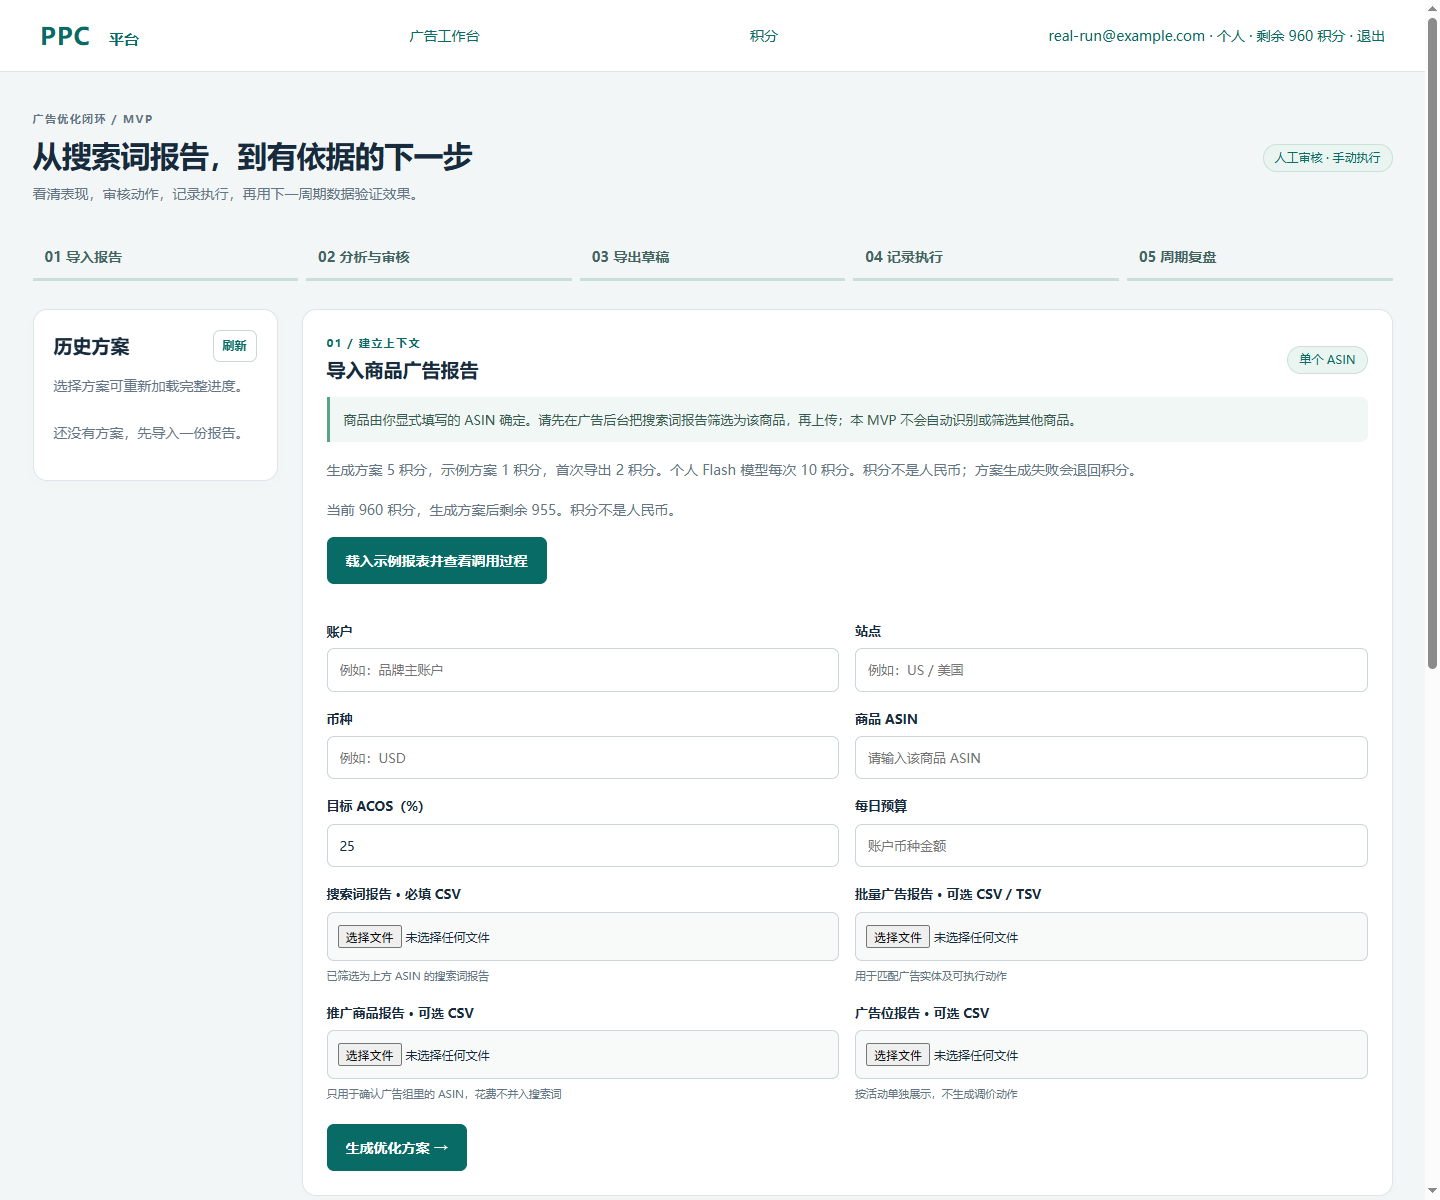
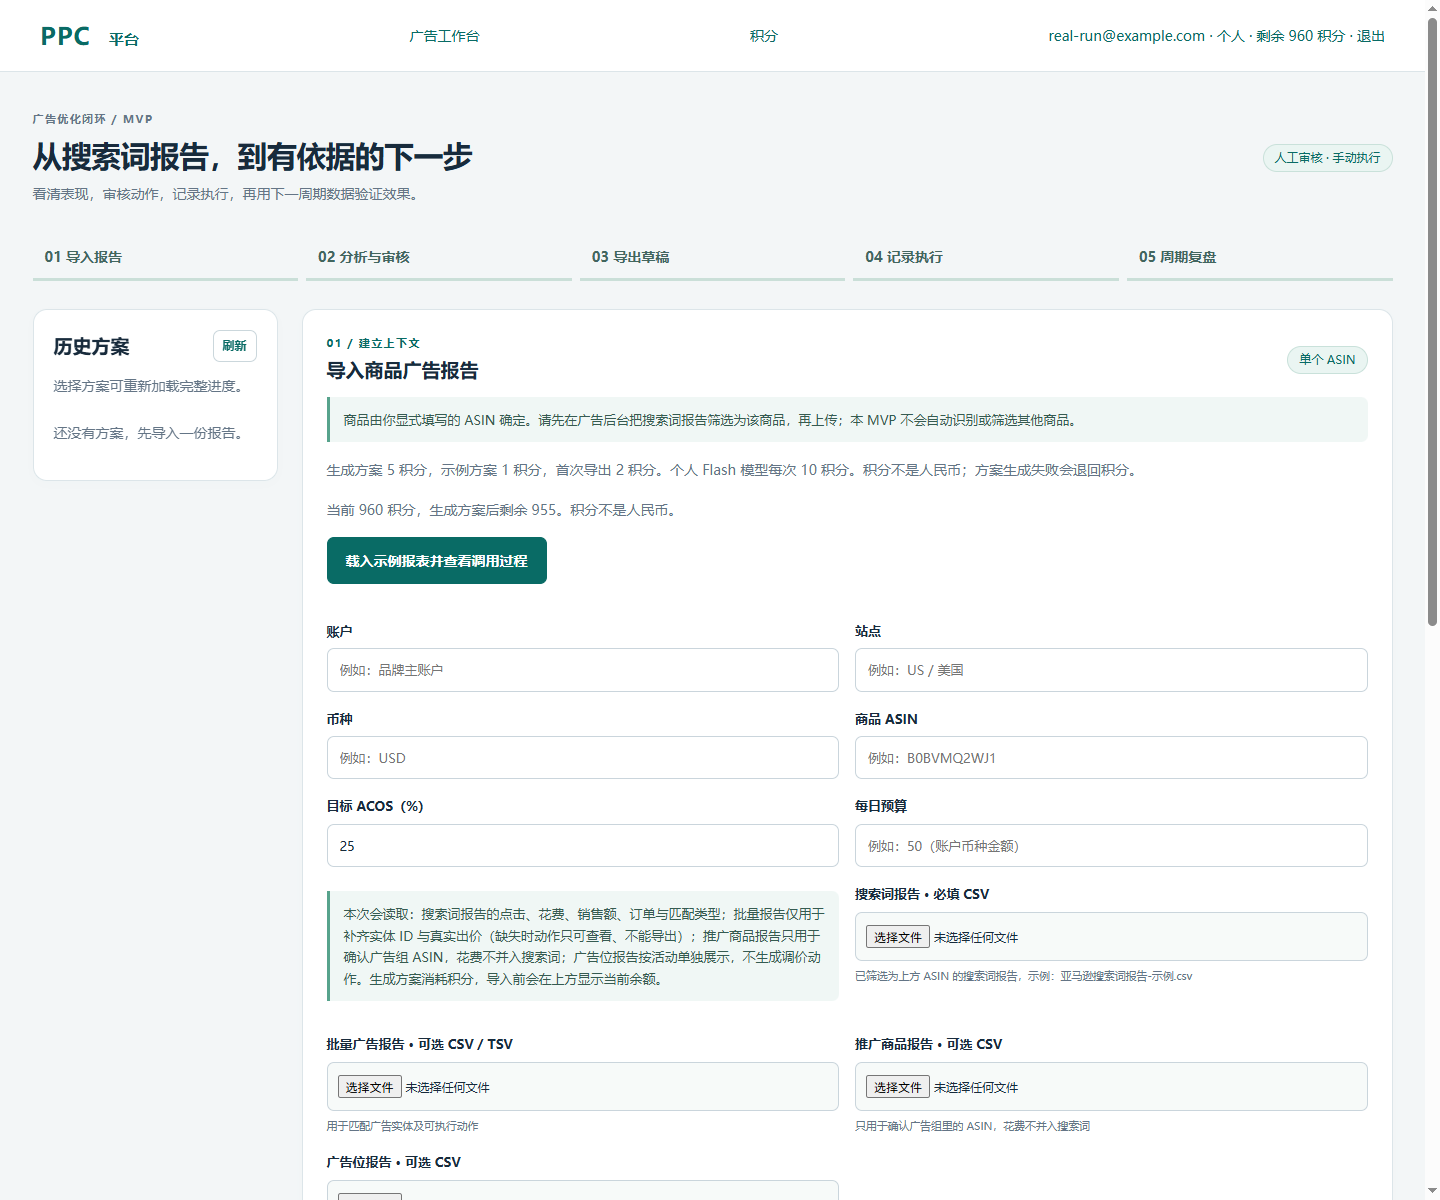
feat: replicate YICOPY pre-query explanation examples and failure states

diff --git a/frontend/workflow.html b/frontend/workflow.html
@@ -30,10 +30,11 @@
           <label>账户<input name="account" required maxlength="200" placeholder="例如：品牌主账户"></label>
           <label>站点<input name="marketplace" required maxlength="80" placeholder="例如：US / 美国"></label>
           <label>币种<input name="currency" required maxlength="12" placeholder="例如：USD"></label>
-          <label>商品 ASIN<input name="asin" required maxlength="100" placeholder="请输入该商品 ASIN"></label>
+          <label>商品 ASIN<input name="asin" required maxlength="100" placeholder="例如：B0BVMQ2WJ1"></label>
           <label>目标 ACOS（%）<input name="target_acos" type="number" required min="0.01" step="0.01" value="25"></label>
-          <label>每日预算<input name="daily_budget" type="number" required min="0.01" step="0.01" placeholder="账户币种金额"></label>
-          <label class="file-field">搜索词报告 · 必填 CSV<input name="search_terms" type="file" accept=".csv" required><small>已筛选为上方 ASIN 的搜索词报告</small></label>
+          <label>每日预算<input name="daily_budget" type="number" required min="0.01" step="0.01" placeholder="例如：50（账户币种金额）"></label>
+          <p class="callout" id="import-scope">本次会读取：搜索词报告的点击、花费、销售额、订单与匹配类型；批量报告仅用于补齐实体 ID 与真实出价（缺失时动作只可查看、不能导出）；推广商品报告只用于确认广告组 ASIN，花费不并入搜索词；广告位报告按活动单独展示，不生成调价动作。生成方案消耗积分，导入前会在上方显示当前余额。</p>
+          <label class="file-field">搜索词报告 · 必填 CSV<input name="search_terms" type="file" accept=".csv" required><small>已筛选为上方 ASIN 的搜索词报告，示例：亚马逊搜索词报告-示例.csv</small></label>
           <label class="file-field">批量广告报告 · 可选 CSV / TSV<input name="bulk" type="file" accept=".csv,.tsv"><small>用于匹配广告实体及可执行动作</small></label>
           <label class="file-field">推广商品报告 · 可选 CSV<input name="advertised_products" type="file" accept=".csv"><small>只用于确认广告组里的 ASIN，花费不并入搜索词</small></label>
           <label class="file-field">广告位报告 · 可选 CSV<input name="placements" type="file" accept=".csv"><small>按活动单独展示，不生成调价动作</small></label>

diff --git a/frontend/workflow.js b/frontend/workflow.js
@@ -119,7 +119,11 @@
     notice(message, 'loading');
     try { await work(); }
     catch (error) {
-      const messageText = error.message || String(error);
+      const raw = error.message || String(error);
+      const transient = /HTTP 5\d\d|fetch|网络|超时|timeout|连接/i.test(raw);
+      const messageText = transient
+        ? `${raw}\n服务暂时无法完成这次操作，任务已停止，请稍后重试；积分不会因失败调用被扣（模型调用除外，其退款以流水为准）。`
+        : raw;
       notice(messageText, 'error');
       if (exportTask) {
         $('export-error').textContent = messageText;

diff --git a/docs/原型对标技术拆解.md b/docs/原型对标技术拆解.md
@@ -52,9 +52,13 @@ D1 → D2 → D3（P0 一次提交）；D4 → D5 → D6（P1 一次提交）。
 - D4 最近方案改为表格（ASIN / 状态 / 可核对花费 / 更新时间）。
 - 附带修复：登录页原被 245px 侧栏栅格压窄，改为 `.auth-layout` 居中 460px；仪表盘重复的"可核对花费"提示去重。
 
-## 由实测新增的待办（P1+）
+## 由实测新增的待办
 
-- D9 **成本分档**：参考 YICOPY 按查询深度（30/60/90 算力）分档，我们可改为按导入规模或是否含 Bulk 报告分档计费，并在按钮旁同时显示"本次消耗 + 当前余额"。
-- D10 **前置说明**：导入前明确"本次会读取哪些字段、生成什么"，对应 YICOPY 的"本次会读取该父体的变体、近30天购买人数……"。
-- D11 **示例值**：输入框 placeholder 与示例 ASIN 提示，降低空表单焦虑。
-- D12 **失败态兜底**：YICOPY 被 Amazon 限流时给出"任务已停止，请稍后再试/更换网络"。我们的模型调用失败已有退款提示，但**规则分析/导出失败**缺少同等明确的失败态文案，需补齐。
+- D9 **成本分档**：参考 YICOPY 按查询深度（30/60/90 算力）分档，我们可改为按导入规模或是否含 Bulk 报告分档计费，并在按钮旁同时显示"本次消耗 + 当前余额"。**待评估**：涉及积分模型变更，需先确认计费口径。
+
+## 已复刻落地（2026-11-02 第二批，基于真实登录态界面）
+
+- D10 **前置说明**：导入表单内新增"本次会读取……"说明块，逐条写明四份报告各自贡献什么、Bulk 缺失时的后果、推广商品与广告位不并入花费。对应 YICOPY 的"本次会读取该父体的变体、近30天购买人数……"。
+- D11 **示例值**：ASIN 输入框 placeholder 改为"例如：B0BVMQ2WJ1"；每日预算补"例如：50"；搜索词报告补示例文件名。对应 YICOPY 的"示例ASIN / 示例关键词"与"例如 iphone case"式 placeholder。
+- D12 **失败态兜底**：`task()` 捕获到 5xx / 网络 / 超时类错误时，追加"服务暂时无法完成这次操作，任务已停止，请稍后重试"并说明积分口径。对应 YICOPY 的"Amazon 暂时限制了当前访问，任务已停止。请稍后再试"。
+- 均已在真实浏览器截图验证（`docs/对标快照/local-workflow.png`）。

diff --git a/docs/原型测试工作流知识库.md b/docs/原型测试工作流知识库.md
@@ -18,9 +18,18 @@
 - 右侧/底部「最近查询记录：查看此前完成的查询和报告」，实测新账号显示"暂无历史记录"。
 - 输入 ASIN 后提示"已输入 1/1 个 ASIN。本次会读取该父体的变体、近30天购买人数、价格、评分、促销和页面入口，生成当前页面可见信息下的流量分布"，并提供「清空」。
 
-### 实测遇到的真实失败态
-提交查询后返回：**「Amazon 暂时限制了当前访问，任务已停止。请稍后再试；如持续出现，请更换网络后重试。」**
-说明其实时结果依赖现场抓取 Amazon 页面，会被 Amazon 限流；这是真实可观察行为，已截图（`yicopy-16-result.png`，本地）。本次因此**未拿到流量结构结果数据**。
+### 三个工具的界面结构（高度一致，均已实测）
+| 工具 | 算力 | 示例值 |
+|---|---|---|
+| 查流量结构 | 60（快速30/标准60/深度90） | 示例 ASIN：B0CRT6HQ82、B0C3W4MNN1、B09FLNSYDZ |
+| 关键词分析 | 10 | 示例关键词：iphone case、sofa cover、wireless earbuds |
+| 以词找词 | 60 | 示例关键词：wireless earbuds、dash cam、standing desk |
+
+每个工具页都包含：标题带算力价、成本与余额双显示、示例值、站点/语言/币种一致性警告、最近查询记录。placeholder 也带示例（"请输入要分析的关键词，例如 iphone case"）。
+
+### 实测遇到的真实失败态（三个工具一致）
+提交查询后均返回：**「Amazon 暂时限制了当前访问，任务已停止。请稍后再试；如持续出现，请更换网络后重试。」**
+说明其免费工具的实时结果**全部依赖现场抓取 Amazon 页面**，当前账号/网络被 Amazon 限流，因此**本轮未拿到任何工具的结果数据**。三个工具表现一致，可判定为持续性限制而非偶发。
 
 ### 由此修正的对照要点
 - YICOPY 的"算力"是**按次、按档位**明码标价的（30/60/90），比我们的统一积分更细；我们可按"导入规模/是否含 Bulk"设计分档。
